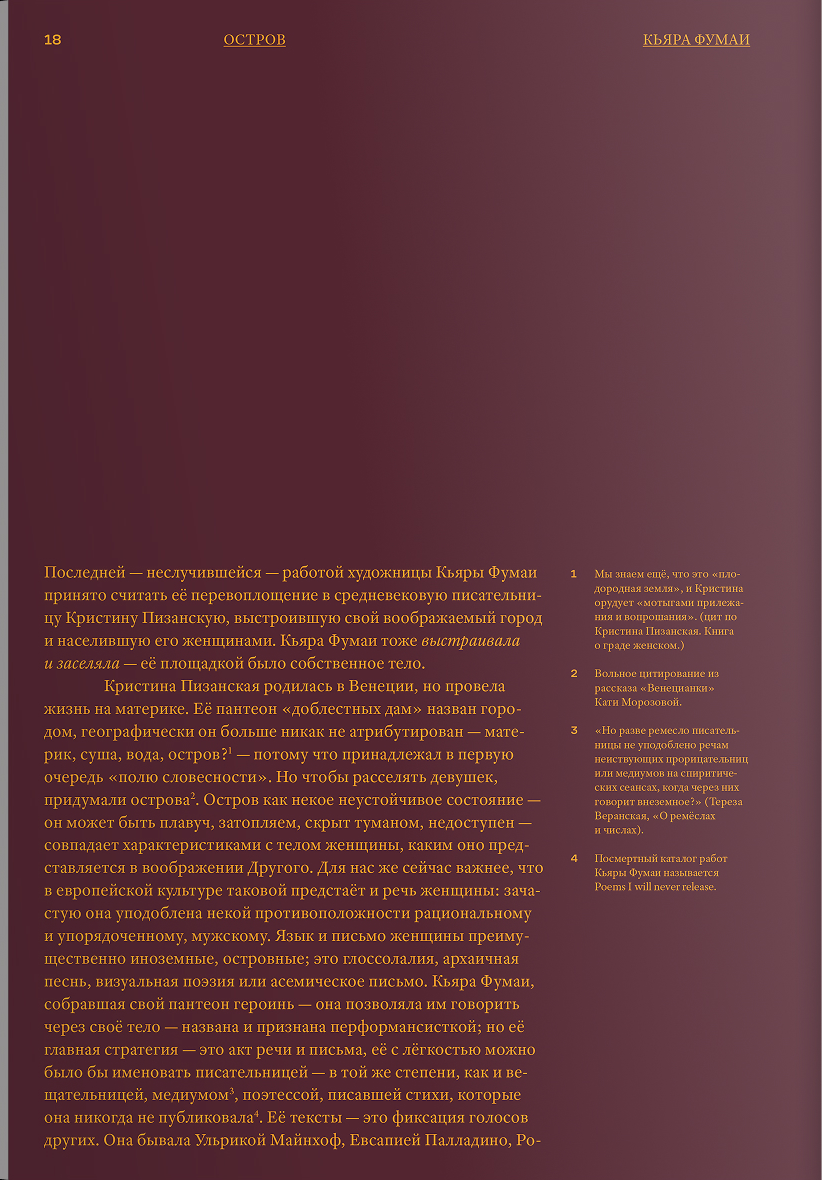
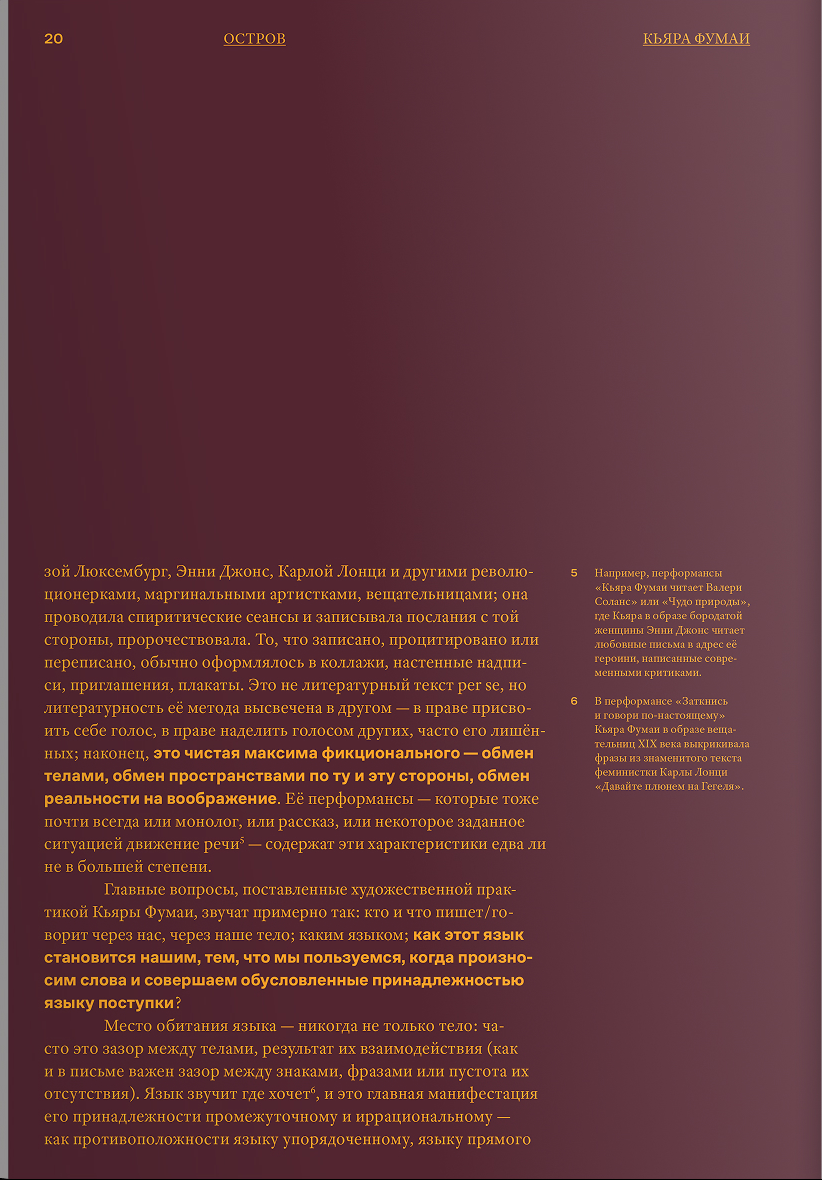
Update Ostrov magazine spreads

diff --git a/styles.css b/styles.css
@@ -93,7 +93,7 @@ body[data-book-state="open"] .object-stage { z-index: 7; }
 .issue-line { width: min(46ch, 100%); margin: 0 auto 16px; color: var(--neon); font-family: var(--font-text); font-size: clamp(14px, 1.1vw, 17px); letter-spacing: .008em; line-height: 1.22; text-align: center; text-wrap: balance; text-shadow: 0 0 4px rgba(255,155,182,.95), 0 0 12px rgba(255,155,182,.62), 0 0 28px rgba(255,155,182,.28); animation: issue-flicker 5.8s ease-in-out infinite; }
 .issue-line__initial { display: inline-block; margin-inline: .01em -.03em; font-size: 1.32em; font-style: italic; line-height: .72; transform: rotate(-8deg) translateY(.04em); transform-origin: center; }
 .closed-book { position: relative; isolation: isolate; width: min(46vw, 430px); margin-inline: auto; transition: opacity .35s ease, transform .7s var(--ease); }
-.closed-book::after { content: ""; position: absolute; z-index: 0; top: 7%; right: 15%; bottom: 7%; width: 14px; background: linear-gradient(90deg, rgba(255,255,255,.4) 0%, rgba(232,232,232,.18) 50%, transparent 100%); border-radius: 0 36% 36% 0; filter: blur(3.5px); transform: translateX(4px); }
+.closed-book::after { content: ""; position: absolute; z-index: 0; top: 7%; right: 15.25%; bottom: 7%; width: 14px; background: linear-gradient(90deg, rgba(255,255,255,.4) 0%, rgba(232,232,232,.18) 50%, transparent 100%); border-radius: 0 36% 36% 0; filter: blur(3.5px); transform: none; }
 .cover-button { display: block; isolation: isolate; z-index: 1; width: 100%; padding: 0; border: 0; background: none; cursor: pointer; position: relative; }
 .cover-button::before, .cover-button::after { content: none; }
 .cover-button:focus-visible { outline: 1px solid var(--seaweed); outline-offset: 5px; }

diff --git a/index.html b/index.html
@@ -8,11 +8,11 @@
     <title>Остров — литературный объект № 1</title>
     <link rel="preload" href="assets/ostrov-cover-mockup.png" as="image" />
     <link rel="preload" href="assets/cover-vellum-aug27-79-78.jpg" as="image" />
-    <link rel="preload" href="assets/ostrov-page-01.png?v=2" as="image" />
-    <link rel="preload" href="assets/ostrov-page-02.png?v=2" as="image" />
+    <link rel="preload" href="assets/ostrov-page-01.png?v=3" as="image" />
+    <link rel="preload" href="assets/ostrov-page-02.png?v=3" as="image" />
     <link rel="preload" href="assets/fonts/AdobeTextPro-Regular.woff2" as="font" type="font/woff2" crossorigin />
     <link rel="preload" href="assets/fonts/cofosans-regular.woff2" as="font" type="font/woff2" crossorigin />
-    <link rel="stylesheet" href="styles.css?v=55" />
+    <link rel="stylesheet" href="styles.css?v=56" />
   </head>
   <body data-book-state="vellum">
     <div class="ambient" aria-hidden="true"></div>
@@ -65,7 +65,7 @@
             <div class="spread-window" id="spread-window">
               <div class="page-flip" id="page-flip" aria-label="Листаемый фрагмент книги"></div>
             </div>
-            <p class="spread-status" id="spread-status" aria-live="polite">Разворот 1 из 6</p>
+            <p class="spread-status" id="spread-status" aria-live="polite">Разворот 1 из 7</p>
           </div>
 
           <div class="book-preorder">
@@ -114,6 +114,6 @@
     </section>
 
     <script src="assets/vendor/page-flip.browser.js"></script>
-    <script src="script.js?v=36"></script>
+    <script src="script.js?v=37"></script>
   </body>
 </html>

diff --git a/script.js b/script.js
@@ -1,5 +1,5 @@
-const pageImages = Array.from({ length: 12 }, (_, index) =>
-  `assets/ostrov-page-${String(index + 1).padStart(2, "0")}.png?v=2`
+const pageImages = Array.from({ length: 14 }, (_, index) =>
+  `assets/ostrov-page-${String(index + 1).padStart(2, "0")}.png?v=3`
 );
 
 const body = document.body;
